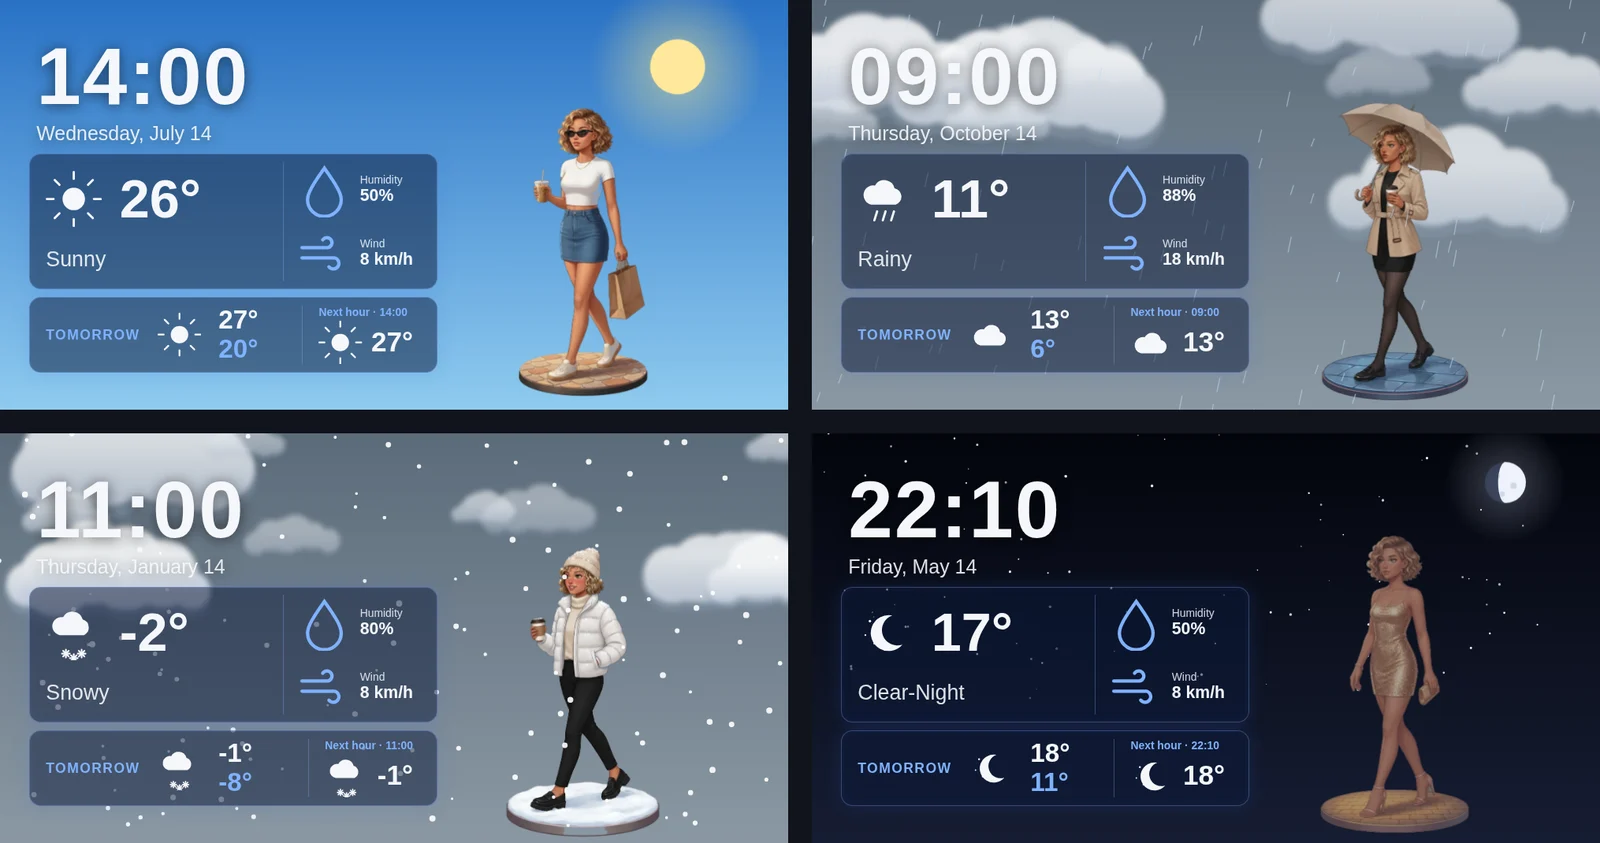
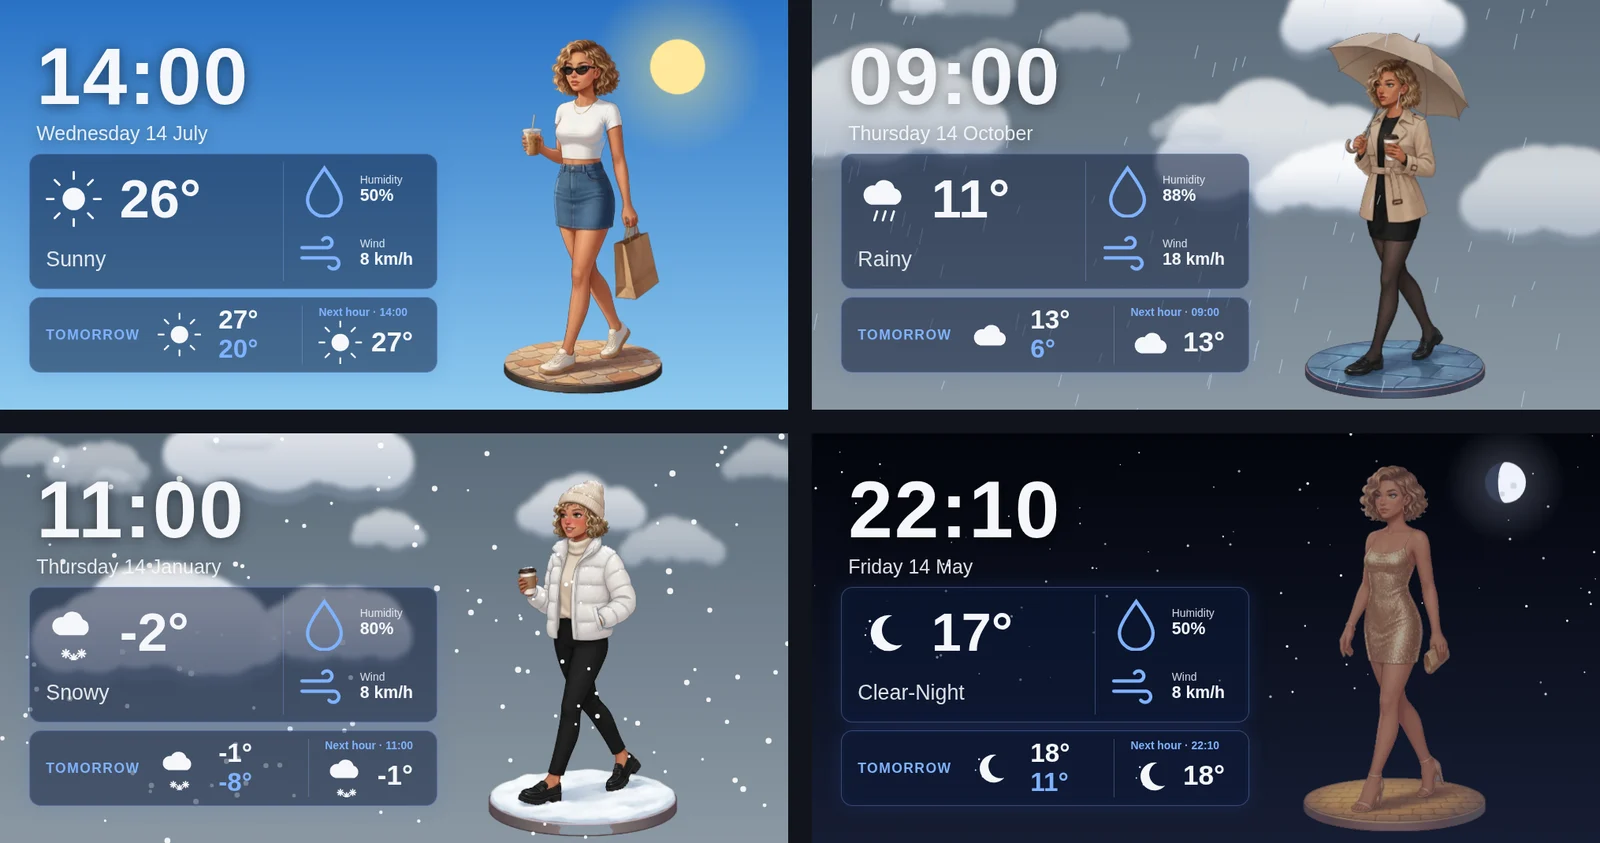
Series: optional body (figure size) in series.json; README images with Samanta at the right size

diff --git a/custom_components/avatar_weather_card/sets.py b/custom_components/avatar_weather_card/sets.py
@@ -240,6 +240,8 @@ class SetLibrary:
         sj = {"id": sid, **{k: v for k, v in meta.items() if k in META_TEXT},
               "slots": {n: {"feetY": s.get("feetY"), "h": s.get("h"), "w": s.get("w")} for n, s in slots.items()}}
         sj["version"] = sj["version"] or "1.0.0"
+        if isinstance(m.get("body"), int) and m["body"] != 900:
+            sj["body"] = m["body"]                     # how big the figure is in the pictures (see "body" in the manifest)
         buf = io.BytesIO()
         with zipfile.ZipFile(buf, "w", zipfile.ZIP_STORED) as z:       # webp is already compressed
             z.writestr("series.json", json.dumps(sj, indent=1))
@@ -294,6 +296,7 @@ class SetLibrary:
         if not exists:
             self._check_room()
         given = meta_in.get("slots") if isinstance(meta_in.get("slots"), dict) else {}
+        body = meta_in.get("body") if isinstance(meta_in.get("body"), int) and not isinstance(meta_in.get("body"), bool) and 300 <= meta_in["body"] <= 3000 else None
         tmp = self.root / f"series-{sid}.tmp-{int(time.time())}"
         slots, skipped, made = {}, 0, None
         unknown = []                            # pictures whose name matches no weather cell, music cell or event: they are not installed
@@ -343,10 +346,10 @@ class SetLibrary:
                 if backup:
                     made = self.backup_create(sid, f"before updating the set “{self.meta(sid)['name']}”")   # a failure stops here: nothing deleted
                 meta["created"] = self.meta(sid).get("created") or int(time.time())
-                self.lib(sid).replace_all(tmp, slots)
+                self.lib(sid).replace_all(tmp, slots, body)
             else:
                 (self.dir / sid).mkdir(parents=True)
-                ImageLibrary(self.dir / sid).replace_all(tmp, slots)
+                ImageLibrary(self.dir / sid).replace_all(tmp, slots, body)
             self._write_meta(sid, meta)
             if prompts_in is not None:             # a series without prompts keeps the prompts the set already had
                 self.prompts_set(sid, prompts_in)

diff --git a/tools/make_series.py b/tools/make_series.py
@@ -24,6 +24,7 @@ def main() -> int:
     ap.add_argument("--release-base", default="", help="e.g. https://github.com/OWNER/REPO/releases/download")
     ap.add_argument("--prompts", default="", help="the set's prompt file (prompts.txt) to put in the zip")
     ap.add_argument("--index", default="", help="the images repository's index.json: the entry is added or replaced there")
+    ap.add_argument("--body", type=int, default=0, help="head-to-soles height of the figure, in px, at which she is shown full size (default 900); a smaller number shows her bigger")
     ap.add_argument("--exclude", default="", help="comma separated slot names to leave out")
     a = ap.parse_args()
     if not SERIES_ID.match(a.id):
@@ -35,6 +36,8 @@ def main() -> int:
     meta = {"id": a.id, "name": a.name, "version": a.version, "description": a.description, "author": a.author, "license": a.license,
             "attribution": a.attribution, "character": a.character, "models": a.models, "source": a.source,
             "slots": {n: {"feetY": slots[n]["feetY"], "h": slots[n]["h"], "w": slots[n]["w"]} for n in names}}
+    if a.body and a.body != 900:
+        meta["body"] = a.body
     os.makedirs(a.out, exist_ok=True)
     zpath = os.path.join(a.out, f"{a.id}-{a.version}.zip")
     with zipfile.ZipFile(zpath, "w", zipfile.ZIP_STORED) as z:     # webp is already compressed

diff --git a/tests/test_series.py b/tests/test_series.py
@@ -62,6 +62,14 @@ assert other.info("pencil-woman")["author"] == "Me"
 expect_error("exists", lambda: other.install(z, [], replace=False, backup=False), "already have", sets_mod.SetExists)
 print("  ok   export -> install round trip; an existing id is never overwritten by surprise")
 
+# "body": the figure size of a set travels in series.json (default 900 is not written)
+assert "body" not in sj, sj
+S.lib("pencil-woman").replace_all(S.lib("pencil-woman").dir, {n: s for n, s in S.lib("pencil-woman").listing()["slots"].items()}, 730)
+zb = S.export("pencil-woman"); assert json.loads(zipfile.ZipFile(io.BytesIO(zb)).read("series.json"))["body"] == 730
+o2 = sets_mod.SetLibrary(Path(tempfile.mkdtemp())); o2.setup(); o2.install(zb, [], replace=False, backup=False)
+assert o2.lib("pencil-woman").listing()["body"] == 730, o2.lib("pencil-woman").listing()
+print("  ok   body (figure size) is exported and installed")
+
 good = {"mild_clear_afternoon.webp": png(), "music_cold_evening.webp": png(), "halloween_evening.webp": png(), "readme.txt": b"x", "bogus_name.webp": png()}
 r = S.install(make_zip(good), ["halloween"], replace=False, backup=False, expect_id="demo")
 assert r["count"] == 3 and r["skipped"] == 2 and r["id"] == "demo", r

diff --git a/docs/SERIES.md b/docs/SERIES.md
@@ -4,7 +4,7 @@ A **series** is a ready-made set of pictures of one character, distributed as a 
 
 ## A series zip
 A flat zip with:
-- `series.json`: `{"id": "pencil-woman", "name": "...", "version": "0.1.0", "description": "...", "author": "...", "license": "CC BY 4.0", "attribution": "...", "character": "...", "models": "...", "slots": {"mild_clear_afternoon": {"feetY": 1023, "h": 1078, "w": 750}, ...}}` — `id` must match the id it is installed under; `slots` is optional (the soles line is detected when missing).
+- `series.json`: `{"id": "pencil-woman", "name": "...", "version": "0.1.0", "description": "...", "author": "...", "license": "CC BY 4.0", "attribution": "...", "character": "...", "models": "...", "slots": {"mild_clear_afternoon": {"feetY": 1023, "h": 1078, "w": 750}, ...}}` — `id` must match the id it is installed under; `slots` is optional (the soles line is detected when missing). `body` is optional (default 900, 300-3000): the figure's head-to-soles height, in picture pixels, that is shown at the normal size. Pictures where she fills fewer pixels than in other sets (say 810 px tall) get a smaller number (730) so that she is shown as big as in the others.
 - one `<slot>.webp` per picture (transparent, or on a plain chroma-key background that is removed on import), named like the slots (`mild_clear_afternoon.webp`, `music_cold_evening.webp`, `halloween_evening.webp`…). Pictures should be normalised like the ones the panel stores (empty margin cropped, figure centred on the standing point).
 - optional `prompts.txt`: the set's prompt file (see the README, *Prompts*). Installing a zip that has one replaces the set's prompts; a zip without one keeps them.
 
